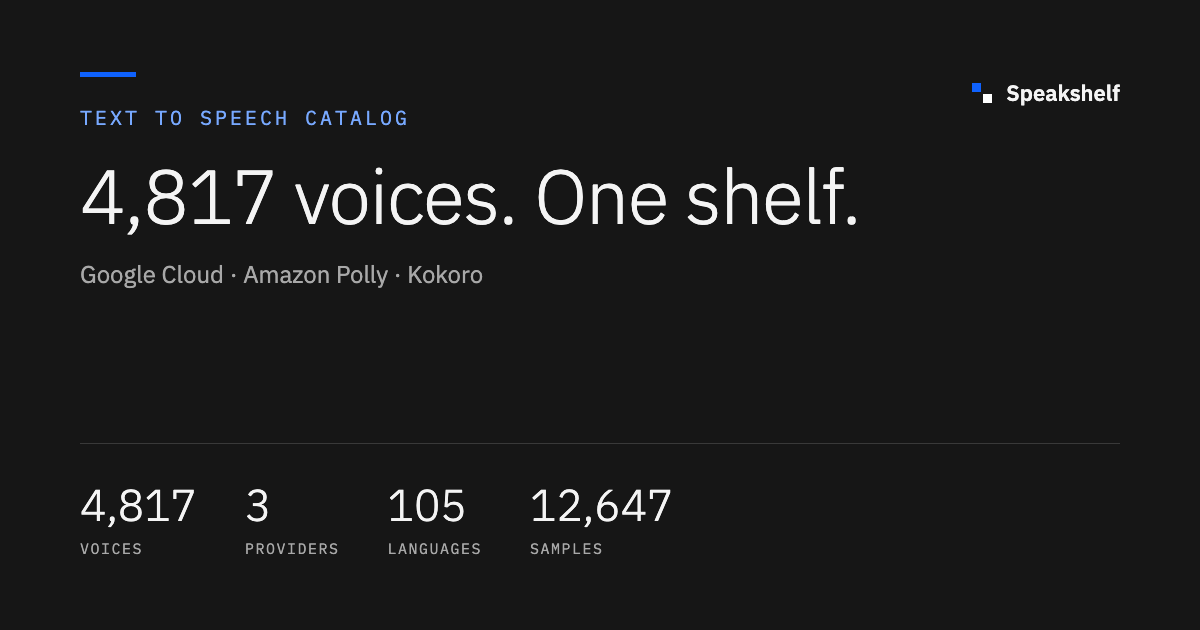
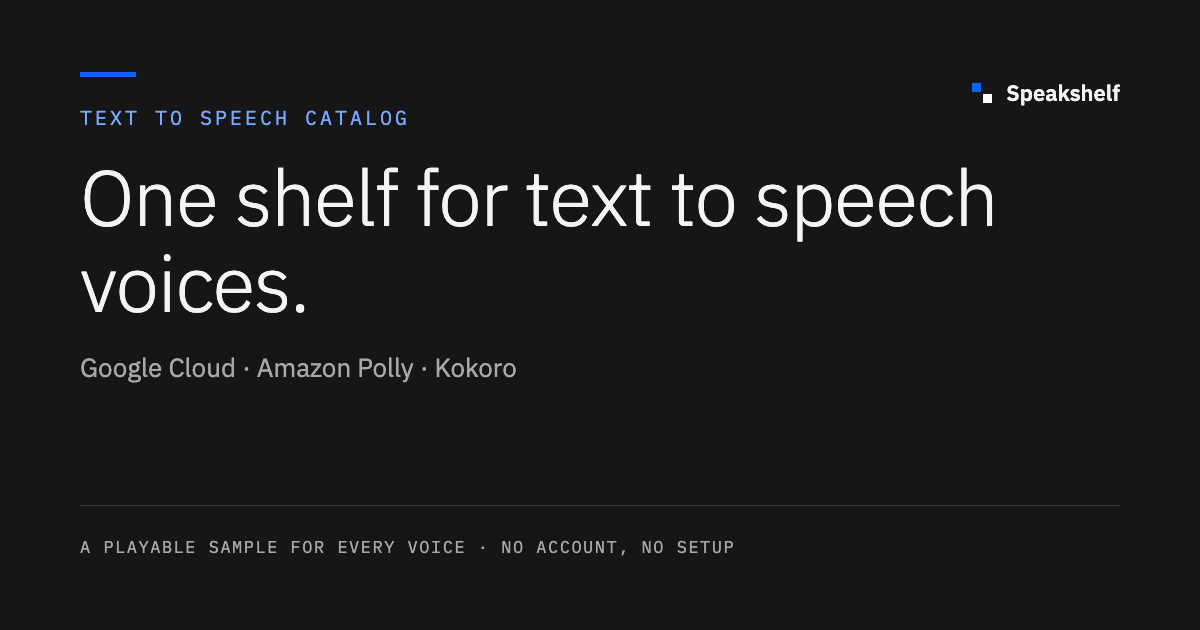
Count voices the provider's way, and keep counts off share surfaces
A voice is one entry in the provider's own published voice list; a
sample is one playable render. Google's list counts every
language+family+name row (4,586 stands); AWS's table counts a voice once
per language with engines as capability columns, so Polly's per-engine
rows collapse to 113 voices over 177 samples; Kokoro is 54 and 54.
Cross-language name reuse stays counted per language, as both providers'
own tables do. voiceIdentity in the bless config drives stats, language
summaries, explorer counts and group heads; rows stay one per render.
Umbrella totals become 4,753 voices, 12,647 samples.

Share surfaces lose their numbers: platforms cache link previews for
weeks, so counts on og.png or og/twitter descriptions would go stale no
matter how they are generated. The card is now timeless (name, provider
list, the sample promise) and regenerating it joins the provider
blessing ritual; live counts stay in SEO descriptions and on the pages.

Claude-Session: https://claude.ai/code/session_01PrALgV972st6UkssiiMzyE

diff --git a/app/[provider]/voices/[lang]/page.tsx b/app/[provider]/voices/[lang]/page.tsx
@@ -2,7 +2,7 @@ import type { Metadata } from "next";
 import Link from "next/link";
 import { notFound } from "next/navigation";
 import { ExplorerList } from "@/components/Explorer";
-import { getProviderCatalog, sampleCount } from "@/lib/catalog";
+import { getProviderCatalog, sampleCount, voiceCount } from "@/lib/catalog";
 import { PROVIDERS, getProvider } from "@/lib/providers";
 import { languageName } from "@/lib/lang";
 
@@ -37,15 +37,17 @@ export async function generateMetadata({ params }: { params: Promise<Params> }):
   const catalog = await getProviderCatalog(provider);
   if (!meta || !catalog) return {};
   const name = languageName(lang);
-  const count = catalog.voices.filter((v) => v.lang === lang).length;
-  if (count === 0) return {};
+  const inLang = catalog.voices.filter((v) => v.lang === lang);
+  if (inLang.length === 0) return {};
+  const count = voiceCount(inLang, meta.voiceIdentity);
   return {
     title: `${meta.label} ${name} voices`,
     description: `All ${count} ${meta.label} text to speech voices for ${name} (${lang}), with samples you can play in the browser.`,
     alternates: { canonical: `/${provider}/voices/${lang}` },
     openGraph: {
       title: `${meta.label} ${name} voices · Speakshelf`,
-      description: `All ${count} ${meta.label} text to speech voices for ${name}, with playable samples.`,
+      // No counts on share surfaces: platforms cache previews for weeks.
+      description: `${meta.label} text to speech voices for ${name}, with playable samples.`,
       images: ["/og.png"],
     },
   };
@@ -59,6 +61,7 @@ export default async function LanguagePage({ params }: { params: Promise<Params>
   const voices = catalog.voices.filter((v) => v.lang === lang);
   if (voices.length === 0) notFound();
   const name = languageName(lang);
+  const count = voiceCount(voices, meta.voiceIdentity);
   const families = new Set(voices.map((v) => v.family)).size;
   const samples = sampleCount(voices, catalog.models);
   const famWord = families === 1 ? meta.familyWord.one : meta.familyWord.many;
@@ -82,7 +85,7 @@ export default async function LanguagePage({ params }: { params: Promise<Params>
           </Link>
           <h1>{name}</h1>
           <p className="subhead-meta">
-            {lang} · {voices.length} {voices.length === 1 ? "voice" : "voices"} · {families} {famWord} ·{" "}
+            {lang} · {count} {count === 1 ? "voice" : "voices"} · {families} {famWord} ·{" "}
             {samples} playable {samples === 1 ? "sample" : "samples"}
           </p>
         </div>

diff --git a/components/Explorer.tsx b/components/Explorer.tsx
@@ -254,6 +254,18 @@ function ExplorerCore({ provider, voices, lockLanguage, models, paramsKey }: Cor
     [filtered, models],
   );
 
+  // Voices follow the provider's own accounting (see voiceIdentity in the
+  // bless config): polly's per-engine rows are renders of one voice, so
+  // the count collapses language+name pairs while every row stays listed.
+  const identity = getProvider(provider)?.voiceIdentity ?? "row";
+  const shownVoices = useMemo(
+    () =>
+      identity === "row"
+        ? filtered.length
+        : new Set(filtered.map((v) => `${v.lang}|${v.name}`)).size,
+    [filtered, identity],
+  );
+
   const showModelPick =
     subModels.length > 1 && (voices ? voices.some((v) => v.family === multiFamily) : true);
 
@@ -480,7 +492,7 @@ function ExplorerCore({ provider, voices, lockLanguage, models, paramsKey }: Cor
 
       <div className="results-line">
         <span className="results-count" role="status">
-          {all ? `${fmt(filtered.length)} voices · ${fmt(sampleCount)} samples` : "Loading catalog"}
+          {all ? `${fmt(shownVoices)} voices · ${fmt(sampleCount)} samples` : "Loading catalog"}
         </span>
         {hasFilters && (
           <button
@@ -505,7 +517,9 @@ function ExplorerCore({ provider, voices, lockLanguage, models, paramsKey }: Cor
                 {languageName(g.code)}
               </a>
               <span className="lang-code">{g.code}</span>
-              <span className="lang-count">{fmt(g.items.length)} voices</span>
+              <span className="lang-count">
+                {fmt(identity === "row" ? g.items.length : new Set(g.items.map((v) => v.name)).size)} voices
+              </span>
             </div>
           )}
           {g.items.map((v) => {

diff --git a/lib/providers.ts b/lib/providers.ts
@@ -23,6 +23,15 @@ export interface ProviderMeta {
   heroSub: string;
   /** What this provider calls its voice groupings. */
   familyWord: { one: string; many: string; jump: string };
+  /** What counts as one voice, following the provider's own published
+   *  voice list. "row" counts every catalog entry (google lists each
+   *  language+family+name as its own voice; kokoro is flat). "langName"
+   *  counts distinct language+name pairs (AWS's table lists a voice once
+   *  per language with engines as capability columns, so Polly's
+   *  per-engine rows are renders of one voice). Samples always count
+   *  renders. Cross-language name reuse stays counted per language,
+   *  because both providers' own tables do exactly that. */
+  voiceIdentity: "row" | "langName";
   /** Line under the families section title. */
   familiesIntro: string;
   /** Umbrella card paragraph. */
@@ -46,6 +55,7 @@ export const PROVIDERS: ProviderMeta[] = [
     key: "google",
     label: "Google Cloud",
     short: "Google",
+    voiceIdentity: "row" as const,
     eyebrow: "GOOGLE CLOUD TEXT TO SPEECH",
     heroTitle: "Every Google voice, on one page.",
     heroSub:
@@ -63,6 +73,7 @@ export const PROVIDERS: ProviderMeta[] = [
     key: "polly",
     label: "Amazon Polly",
     short: "Polly",
+    voiceIdentity: "langName" as const,
     eyebrow: "AMAZON POLLY TEXT TO SPEECH",
     heroTitle: "Every Amazon Polly voice, on one page.",
     heroSub:
@@ -80,6 +91,7 @@ export const PROVIDERS: ProviderMeta[] = [
     key: "kokoro",
     label: "Kokoro",
     short: "Kokoro",
+    voiceIdentity: "row" as const,
     eyebrow: "KOKORO TEXT TO SPEECH",
     heroTitle: "Every Kokoro voice, on one page.",
     heroSub:

diff --git a/lib/catalog.ts b/lib/catalog.ts
@@ -197,9 +197,22 @@ export function sampleCount(voices: Voice[], models: Record<string, string[]>): 
   return n;
 }
 
+// A voice is one entry in the provider's own published voice list; a
+// sample is one playable render of it. Google's list counts every
+// language+family+name row; AWS's table counts language+name once with
+// engines as capability columns, so Polly's per-engine rows collapse.
+// See voiceIdentity in lib/providers.ts.
+export function voiceCount(voices: Voice[], identity: "row" | "langName"): number {
+  if (identity === "row") return voices.length;
+  const seen = new Set<string>();
+  for (const v of voices) seen.add(`${v.lang}|${v.name}`);
+  return seen.size;
+}
+
 function buildProviderCatalog(provider: string, updated: string, packed: PackedProvider): ProviderCatalog {
   const voices = unpack(provider, packed);
   const models = packed.models ?? {};
+  const identity = getProvider(provider)?.voiceIdentity ?? "row";
 
   const byLang = new Map<string, Voice[]>();
   for (const v of voices) {
@@ -211,7 +224,7 @@ function buildProviderCatalog(provider: string, updated: string, packed: PackedP
     .map(([code, list]) => ({
       code,
       name: languageName(code),
-      voices: list.length,
+      voices: voiceCount(list, identity),
       samples: sampleCount(list, models),
       families: new Set(list.map((v) => v.family)).size,
     }))
@@ -256,7 +269,7 @@ function buildProviderCatalog(provider: string, updated: string, packed: PackedP
     languages,
     families,
     stats: {
-      voices: voices.length,
+      voices: voiceCount(voices, identity),
       languages: byLang.size,
       families: byFamily.size,
       samples: sampleCount(voices, models),

diff --git a/app/layout.tsx b/app/layout.tsx
@@ -35,15 +35,20 @@ export async function generateMetadata(): Promise<Metadata> {
   const site = await getSite();
   const present = listNames(PROVIDERS.filter((p) => site.providers.has(p.key)).map((p) => p.label));
   const title = `Speakshelf · text to speech voices from ${present}`;
+  // Counts live only in the SEO description, which search engines
+  // re-crawl. Share surfaces (og/twitter, like the og.png card) carry no
+  // numbers: platforms cache previews for weeks, so counts there would
+  // drift stale no matter how they are generated.
   const description = `Browse and play ${site.stats.voices.toLocaleString(
     "en-US",
   )} text to speech voices from ${present} in ${site.stats.languages} languages, every one with a playable sample.`;
+  const shareDescription = `Browse and play the text to speech catalogs of ${present}. A playable sample for every voice.`;
   return {
     ...metadata,
     title: { template: "%s · Speakshelf", default: title },
     description,
-    openGraph: { ...metadata.openGraph, title, description },
-    twitter: { ...metadata.twitter, title, description },
+    openGraph: { ...metadata.openGraph, title, description: shareDescription },
+    twitter: { ...metadata.twitter, title, description: shareDescription },
   };
 }
 

diff --git a/app/[provider]/page.tsx b/app/[provider]/page.tsx
@@ -35,7 +35,8 @@ export async function generateMetadata({ params }: { params: Promise<Params> }):
     alternates: { canonical: `/${provider}` },
     openGraph: {
       title: `${meta.label} text to speech voices · Speakshelf`,
-      description,
+      // No counts on share surfaces: platforms cache previews for weeks.
+      description: `The full ${meta.label} text to speech catalog with a playable sample for every voice.`,
       images: ["/og.png"],
     },
   };

diff --git a/docs/decisions.md b/docs/decisions.md
@@ -2,6 +2,14 @@
 
 Settled decisions, newest first. Append a dated entry when something gets decided; correct an old entry by appending, not rewriting. Do not relitigate these silently: if you believe one is wrong, say so to the owner with evidence.
 
+## 2026-08-13: share surfaces carry no counts
+
+Share platforms (Twitter, WhatsApp, Slack, iMessage) cache link previews for days or weeks, so any number on og.png or in og/twitter descriptions goes stale in the wild no matter how it is generated; even a dynamically rendered card cannot beat the platform cache. The og.png card and all og/twitter descriptions are therefore timeless: name, provider list, the sample promise, no counts. Counts stay in SEO meta descriptions and on the pages themselves, which crawlers re-fetch. The card names the blessed providers, so regenerating it (scratchpad og.html pattern) is one step of the provider blessing ritual.
+
+## 2026-08-13: a voice is a provider voice-list entry; a sample is a playable render
+
+The owner caught the site counting Polly's 177 per-engine rows as 177 voices while counting Gemini's per-sub-model takes as samples: the same concept, two treatments. Settled definition: a voice is one entry in the provider's own published voice list, a sample is one playable render of it, and the mapping is per provider (`voiceIdentity` in the bless config). Google's list counts every language+family+name row (en-US-Standard-A and en-US-Wavenet-A are distinct voices in Google's docs), so google stays row-counted at 4,586. AWS's Available Voices table lists a voice once per language with engines as capability columns, so polly counts distinct language+name: 113 voices, 177 samples. Kokoro is flat: 54 and 54. Cross-language name reuse is counted once per language, matching both providers' own tables (AWS lists bilingual Aditi under both of its languages; Google lists Achernar per language). Site totals became 4,753 voices, 12,647 samples. Grouping Polly's list rows by voice with a per-row engine picker was considered and parked: the flat per-engine rows keep every render directly playable and comparable.
+
 ## 2026-08-13: providers go live by blessing; the machinery is generic
 
 The multi-provider shelf shipped with Amazon Polly (177 voices) and Kokoro (54) beside Google (4,586). Data, routing, playback and SEO surfaces are generic over a provider dimension, but a provider only goes live through the curated config in `lib/providers.ts` (copy, family metadata, the provider's own vocabulary) plus a refreshed data pack and a real browser playback pass. The bare `/voices` endpoint reports every provider upstream; unblessed ones are console-logged and stay invisible. The owner explicitly declined webhook or CI alerting for newcomers: logs are enough. Rationale: honest copy and verified playback cannot be automated, and a provider appearing on the site should never be a surprise.

diff --git a/docs/architecture.md b/docs/architecture.md
@@ -12,6 +12,7 @@ Everything is generic over providers; going live is not. The split is deliberate
 
 - **Machinery is generic.** Data (`packed v4` keyed by provider), routing (`/[provider]`, `/[provider]/voices/[lang]`), playback (voice ids carry the provider prefix), sitemap, llms.txt and metadata all iterate the blessed set. Nothing anywhere hardcodes "google" except redirects for the pre-umbrella URLs.
 - **Going live is a blessing.** `lib/providers.ts` is the one place a provider becomes real: key, display names, hero and about copy, the word it uses for its voice groupings ("model families" for Google, "engines" for Polly), plus per-provider family metadata in `lib/families.ts` (family keys collide across providers; both Google and Polly ship a "Standard"). The bare upstream `/voices` endpoint returns every provider the AI TTS Microservice carries; anything unblessed is console-logged (`catalog refresh: unblessed provider ...`) and dropped. Blessing requires honest copy and a real browser playback pass, so it stays a human act.
+- **Voices are counted the provider's way.** A voice is one entry in the provider's own published voice list; a sample is one playable render. The bless config's `voiceIdentity` says which: `row` for google and kokoro (Google's list counts every language+family+name), `langName` for polly (AWS's table lists a voice once per language with engines as capability columns, so the API's per-engine rows are renders of one voice: 177 rows, 113 voices). Cross-language name reuse (Google's Achernar in 87 languages, Polly's bilingual Aditi) stays counted per language because both providers' own tables do that. The explorer still lists one row per render; only counts collapse.
 - Blessed today: google (4,586 voices), polly (177), kokoro (54). `scripts/build-data.mjs` keeps its own BLESSED list in step with the config.
 
 ## Catalog data flow

diff --git a/AGENTS.md b/AGENTS.md
@@ -10,7 +10,7 @@ This block is written and re-added by `next dev` — verify at `node_modules/nex
 
 # Speakshelf, working guide for agents
 
-Speakshelf is a public catalog of text to speech voices with playable samples: Google Cloud, Amazon Polly and Kokoro today, built so more providers slot in under one roof. A provider goes live only through the bless config (`lib/providers.ts`, `lib/families.ts`, the BLESSED list in `scripts/build-data.mjs`), a data refresh, honest copy, and a real browser playback pass; unblessed providers appearing upstream just console-log. Before substantial work, read the docs that matter to your task:
+Speakshelf is a public catalog of text to speech voices with playable samples: Google Cloud, Amazon Polly and Kokoro today, built so more providers slot in under one roof. A provider goes live only through the bless config (`lib/providers.ts`, `lib/families.ts`, the BLESSED list in `scripts/build-data.mjs`), a data refresh, honest copy, a real browser playback pass, and a regenerated `public/og.png` (the share card names the providers but carries no counts; see decisions); unblessed providers appearing upstream just console-log. Before substantial work, read the docs that matter to your task:
 
 - `docs/architecture.md` explains how the system works and lists the invariants you must not break
 - `docs/decisions.md` is the dated log of settled decisions; do not quietly relitigate them

diff --git a/README.md b/README.md
@@ -1,6 +1,6 @@
 # Speakshelf
 
-A catalog of text to speech voices with samples you can play in the browser: Google Cloud, Amazon Polly and Kokoro, side by side. At last count: 4,817 voices from 3 providers in 105 languages, with more than twelve thousand playable samples once Gemini's one-take-per-sub-model is counted. The site refreshes its own catalog from the API daily, so those numbers grow on their own.
+A catalog of text to speech voices with samples you can play in the browser: Google Cloud, Amazon Polly and Kokoro, side by side. At last count: 4,753 voices from 3 providers in 105 languages, with more than twelve thousand playable samples once Gemini's one-take-per-sub-model is counted. The site refreshes its own catalog from the API daily, so those numbers grow on their own.
 
 Built with Next.js and styled after IBM's design language: IBM Plex type, sharp corners, thin rules, Carbon blue.
 

diff --git a/docs/roadmap.md b/docs/roadmap.md
@@ -20,4 +20,5 @@ Nothing is queued. The multi-provider shelf (umbrella home, /google move with pe
 - IndexNow pings on catalog changes (Bing and friends only; Google never joined).
 - Per-provider accent hue on tags, only with owner sign-off (see design doc).
 - Per-provider OG images (today one umbrella card serves every page).
+- Polly rows grouped by voice with a per-row engine picker (today the list keeps one row per engine render; only the counts collapse to AWS's per-voice accounting).
 - Louder unblessed-provider alerting (webhook or CI check). Owner declined for now: console logs are enough.
